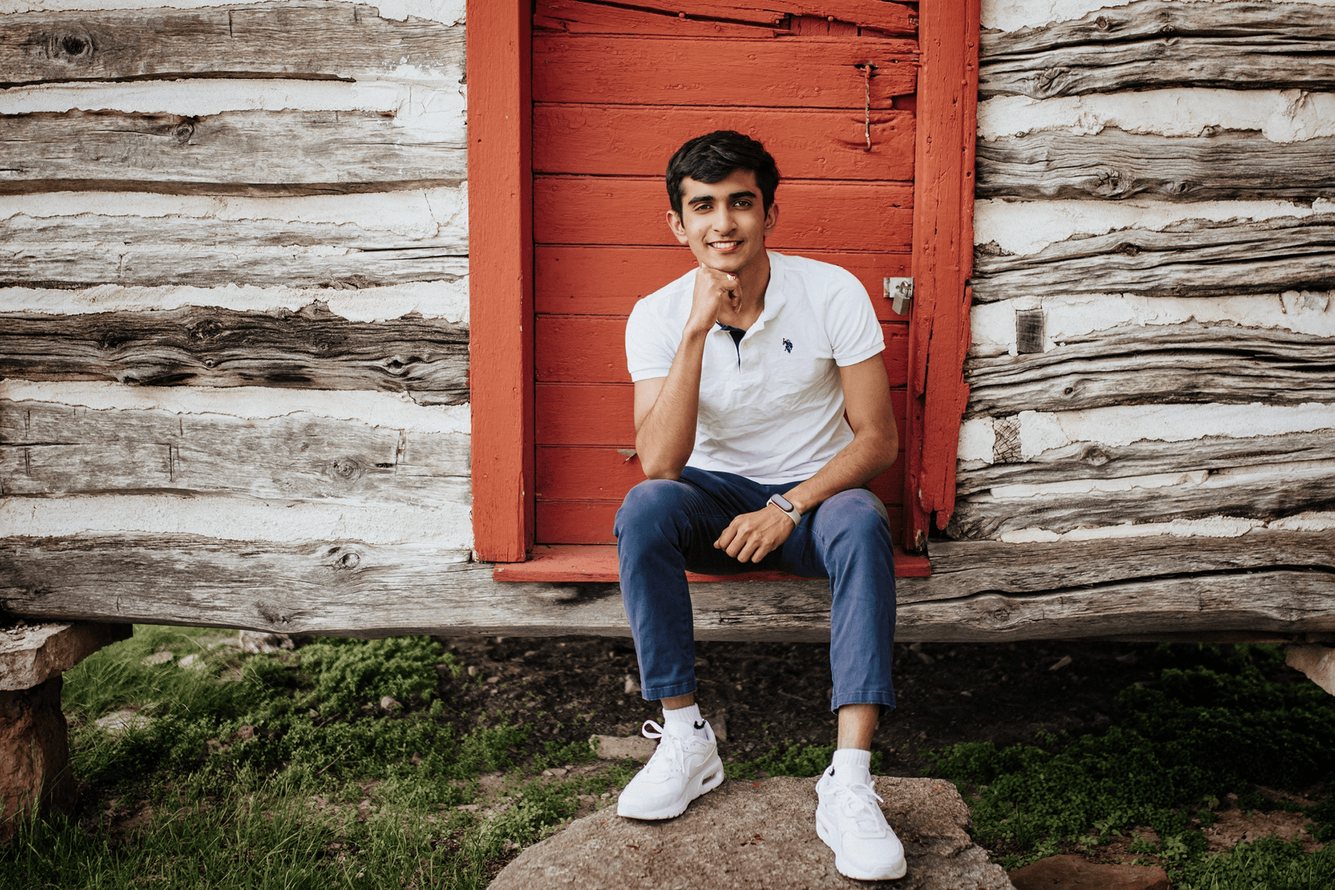
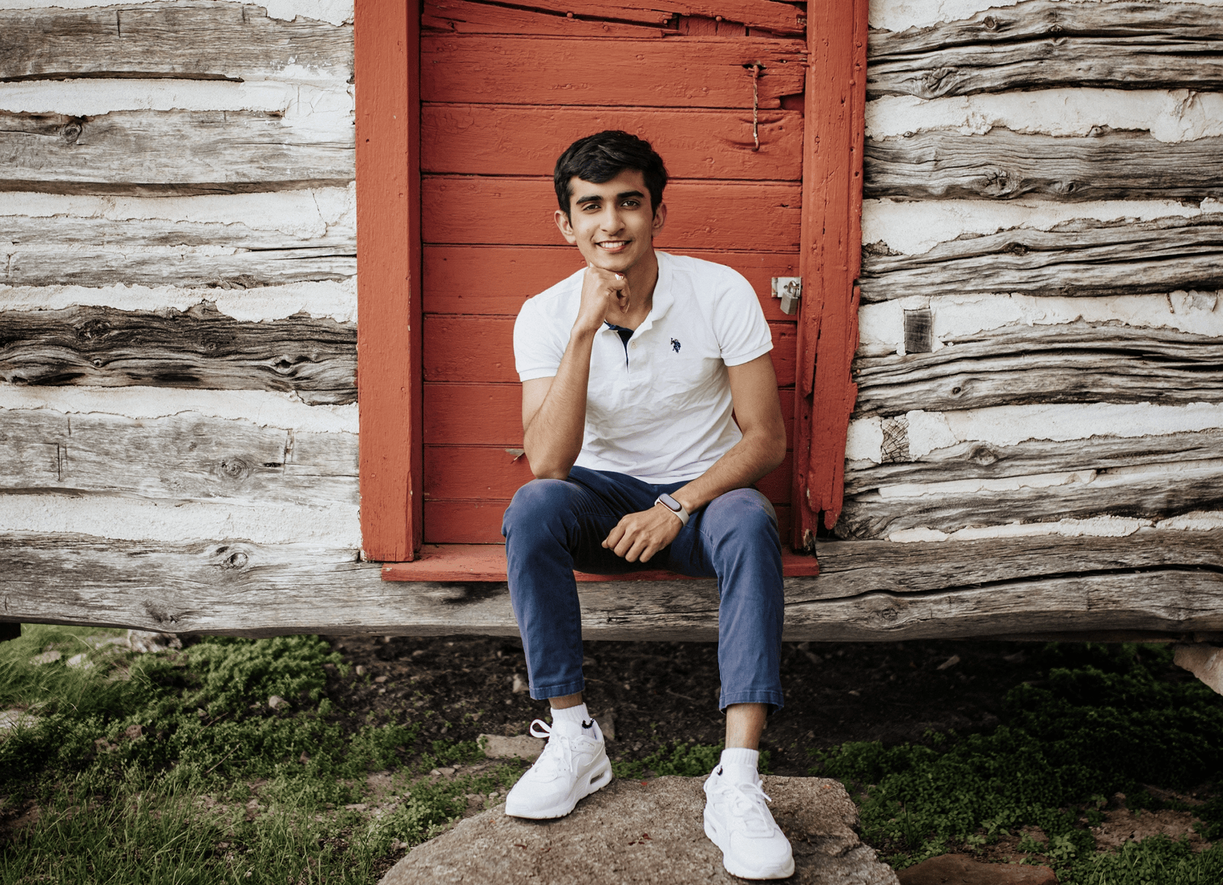
Added about + footeR

diff --git a/src/app/about/page.tsx b/src/app/about/page.tsx
@@ -1,15 +1,45 @@
+"use client";
+
+import Image from "next/image";
+
 import { Nav } from "@/components/nav";
 
 export default function AboutPage() {
   return (
     <div className="flex min-h-screen flex-col">
       <Nav />
-      <main className="flex flex-1 flex-col px-5 md:px-20 py-10">
-        <div className="mx-auto w-full max-w-4xl">
-          <h1 className="font-saans text-4xl text-[#f4f4f5]">About</h1>
-          <p className="mt-4 max-w-2xl text-lg text-[#d4d4d8]">
-            More about Ani’s process, approach, and background will be shared here shortly.
-          </p>
+      <main className="flex flex-1 flex-col px-5 py-50 md:px-20">
+        <div className="mx-auto w-full max-w-5xl">
+          <div className="flex flex-col gap-10 md:flex-row md:items-start">
+            <div className="flex-shrink-0">
+              <Image
+                src="/about/AniChauhan.png"
+                alt="Ani Chauhan"
+                width={360}
+                height={800}
+                className="h-[380px] w-full md:max-w-xs rounded-lg object-cover"
+                priority
+              />
+            </div>
+            <div className="max-w-2xl space-y-6 text-lg text-[#d4d4d8]">
+              <p>
+                For me, design started as a curiosity—as a musician and a developer,
+                I began creating visuals to support my work. That spark grew into a
+                passion for motion and design, where I now focus on turning complex
+                ideas into clear, human experiences.
+              </p>
+              <p>
+                I’m an award-winning designer with 5+ years of experience
+                collaborating with individuals, startups, and global companies. My
+                work spans large-scale product premieres, international ad
+                campaigns, and global events—alongside plenty of other fun,
+                challenging projects that push creativity and craft.
+              </p>
+              <p>
+                Select awards include NASA Conrad Innovation, Ravie Animation Challenge, AngelHack Hackathon, and multiple Design Challenge Awards. 
+              </p>
+            </div>
+          </div>
         </div>
       </main>
     </div>

diff --git a/src/components/footer.tsx b/src/components/footer.tsx
@@ -1,9 +1,36 @@
 import React from 'react';
+import { ArrowUpRight } from 'lucide-react';
+
+// Re-created based on the InlineLink component from page.tsx
+const InlineLink = ({ href, children }) => {
+  return (
+    <a
+      href={href}
+      target="_blank"
+      rel="noopener noreferrer"
+      className="inline-flex items-center space-x-1 text-white/70 hover:text-white transition-colors duration-200 underline underline-offset-4 group"
+    >
+      <span>{children}</span>
+      <ArrowUpRight className="w-4 h-4 transition-transform duration-200 group-hover:translate-x-[1px] group-hover:-translate-y-[1px]" />
+    </a>
+  );
+};
+
 
 export function Footer() {
   return (
-    <footer className="px-5 md:px-20 py-5 text-center text-lg text-[#f4f4f5]/60 border-t border-[#f4f4f5]/10 mt-20">
-      Footer
+    <footer className="flex items-center justify-between px-5 md:px-20 py-5 text-lg text-[#f4f4f5]/60 border-t border-[#f4f4f5]/10 mt-20">
+      <div className="flex items-center gap-6">
+        <InlineLink href="mailto:thechauhananirudh@gmail.com">
+          thechauhananirudh@gmail.com
+        </InlineLink>
+        <InlineLink href="https://www.linkedin.com/in/anichauhan01/">
+          LinkedIn
+        </InlineLink>
+      </div>
+      <div>
+        <span>Ani Chauhan © 2025</span>
+      </div>
     </footer>
   );
 }
